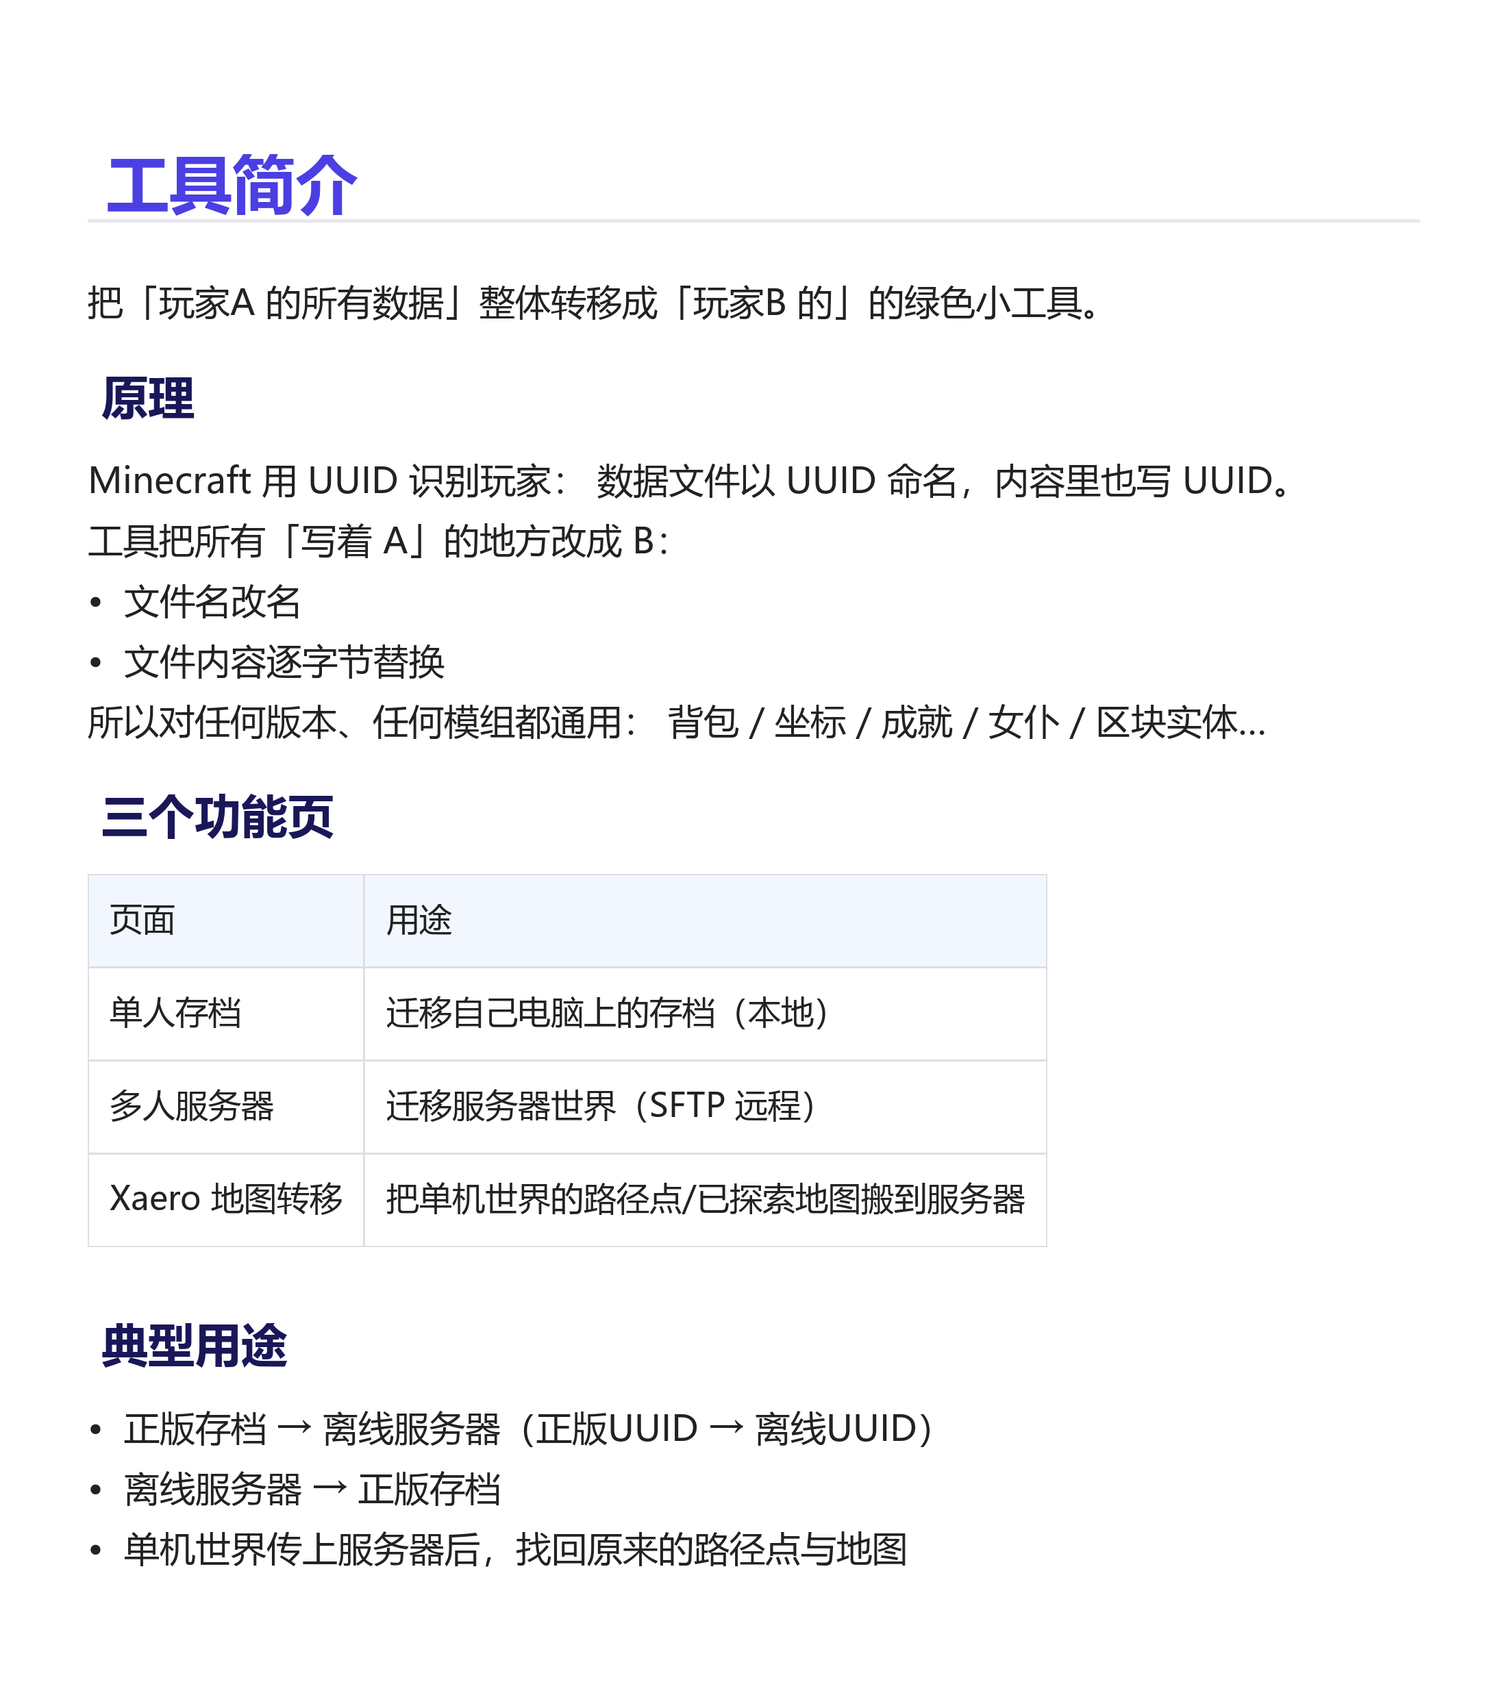
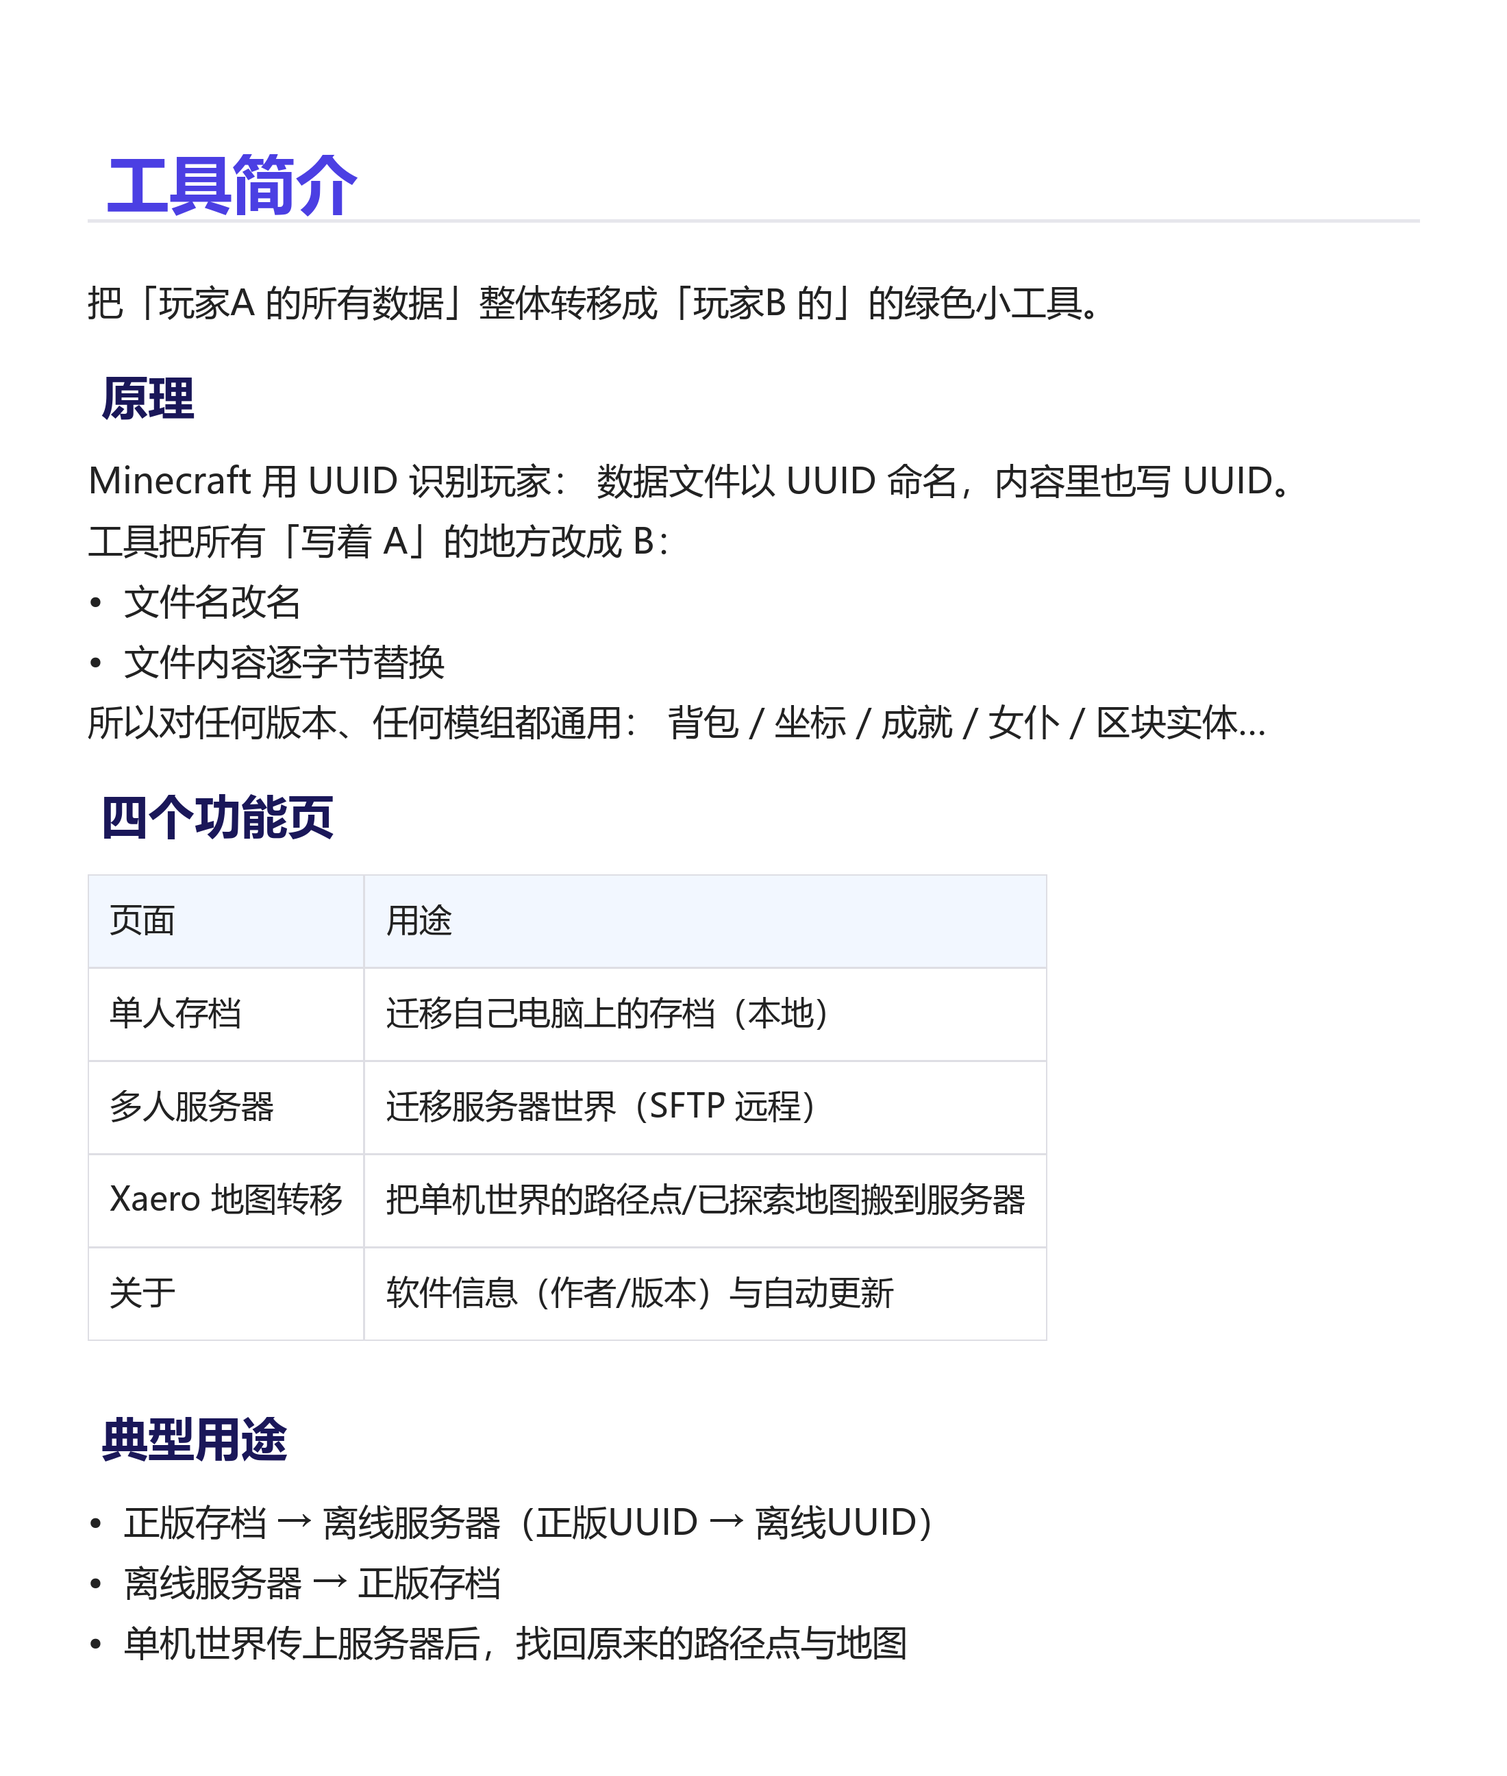
feat: 新增「关于」分页（软件信息 + 自动更新）
自动更新从顶栏按钮搬入独立的「关于」页，顶栏精简为只保留「使用教程」。

- 关于页渲染打包进 exe 的软件图标，显示名称/版本/作者(CallMeACookieWYQ)/许可(MIT)
- 新增可点击链接（GitHub 仓库 / Gitee 发行版）与「打开发布页」按钮
- 状态行显示当前版本、更新源顺序、上次检查时间（存于本地配置）
- 页内文字区记录检查顺序说明、发现的新版本与完整更新日志、下载与替换过程
- spec 打包 uuid_transfer_icon.png（关于页要渲染图标）；窗口尺寸调整为 760x600
- 教程更新：简介改为四个功能页、07 新增「关于」页说明，并重新渲染长图

Changed region(s): [[0.0618, 0.0619, 0.9273, 0.7427], [0.0618, 0.7736, 0.6182, 0.9593]]

diff --git a/uuid_transfer_tool.py b/uuid_transfer_tool.py
@@ -42,6 +42,7 @@ import threading
 import queue
 import http.client
 import urllib.request
+import webbrowser
 import tkinter as tk
 from urllib.parse import urljoin, urlsplit
 from tkinter import ttk, filedialog, messagebox, font as tkfont
@@ -1256,7 +1257,7 @@ def sftp_transfer(ssh, remote_root, uuid_a, uuid_b, report=None, progress=None, 
 # 检查方式参考 MinecraftModsCloudSync：多源查询各自的 releases/latest（Gitee 优先，国内直连更快），
 # 取第一个带 .exe 附件的源；下载沿用「keep-alive + 断点续传 + 断线重试 + 重定向跟随 + 长度校验」。
 # 区别：本工具是单文件 exe（非安装包），所以下载完成后直接原地替换自身并重启。
-APP_VERSION = "1.2.0"
+APP_VERSION = "1.3.0"
 GH_REPO = "CookieWYQ/MC-UUID-Migrator"
 GITEE_REPO = "CookieWYQ/MC-UUID-Migrator"
 GH_LATEST_API = "https://api.github.com/repos/%s/releases/latest" % GH_REPO
@@ -1503,7 +1504,7 @@ class App:
     def __init__(self, master):
         self.master = master
         master.title("UUID 玩家数据迁移")
-        master.geometry("720x560")
+        master.geometry("760x600")
         self.q = queue.Queue()
         self.cancel = threading.Event()
         self._upd_running = False
@@ -1525,9 +1526,6 @@ class App:
         self.auto_btn.pack(side="left", padx=4)
         ttk.Label(top, text="（自动算正版/离线 UUID 填入当前页并执行替换）").pack(side="left")
         ttk.Button(top, text="使用教程", command=self.show_tutorial).pack(side="right", padx=4)
-        self.update_btn = ttk.Button(top, text="检查更新", command=lambda: self.check_update(manual=True))
-        self.update_btn.pack(side="right", padx=4)
-        ttk.Label(top, text="v" + APP_VERSION).pack(side="right")
 
         nb = ttk.Notebook(frm)
         nb.grid(row=1, column=0, columnspan=3, sticky="nsew")
@@ -1620,6 +1618,61 @@ class App:
             row=9, column=0, columnspan=3, sticky="w")
         t3.columnconfigure(1, weight=1)
 
+        # ---- 关于页（软件信息 + 自动更新）----
+        t4 = ttk.Frame(nb, padding=10)
+        nb.add(t4, text="关于")
+
+        head = ttk.Frame(t4)
+        head.grid(row=0, column=0, sticky="we")
+        try:                                      # 渲染软件图标（打包后从解包目录读取）
+            self._icon_img = tk.PhotoImage(file=resource_path("uuid_transfer_icon.png")).subsample(3)
+            tk.Label(head, image=self._icon_img).pack(side="left", padx=(0, 14))
+        except Exception:
+            self._icon_img = None
+        info = ttk.Frame(head)
+        info.pack(side="left", anchor="n", fill="both", expand=True)
+        tk.Label(info, text="MC UUID 玩家数据迁移工具",
+                 font=("Microsoft YaHei UI", 13, "bold")).pack(anchor="w")
+        tk.Label(info, text="版本：v%s" % APP_VERSION).pack(anchor="w", pady=(6, 0))
+        tk.Label(info, text="作者：CallMeACookieWYQ").pack(anchor="w")
+        tk.Label(info, text="许可：MIT").pack(anchor="w")
+        links = ttk.Frame(info)
+        links.pack(anchor="w", pady=(8, 0))
+        self._link(links, "GitHub 仓库", "https://github.com/%s" % GH_REPO).pack(side="left")
+        self._link(links, "Gitee 发行版", "https://gitee.com/%s/releases" % GITEE_REPO).pack(
+            side="left", padx=(14, 0))
+
+        ttk.Separator(t4, orient="horizontal").grid(row=1, column=0, sticky="we", pady=10)
+        tk.Label(t4, text="自动更新", font=("Microsoft YaHei UI", 10, "bold")).grid(row=2, column=0, sticky="w")
+        self.about_state = tk.StringVar(value="当前版本 v%s ｜ 更新源：Gitee（优先）→ GitHub ｜ 上次检查：—"
+                                             % APP_VERSION)
+        ttk.Label(t4, textvariable=self.about_state).grid(row=3, column=0, sticky="w", pady=(4, 6))
+
+        upd_btns = ttk.Frame(t4)
+        upd_btns.grid(row=4, column=0, sticky="w")
+        self.update_btn = ttk.Button(upd_btns, text="检查更新",
+                                     command=lambda: self.check_update(manual=True))
+        self.update_btn.pack(side="left")
+        ttk.Button(upd_btns, text="打开发布页",
+                   command=lambda: webbrowser.open(release_page())).pack(side="left", padx=6)
+        ttk.Button(upd_btns, text="使用教程",
+                   command=self.show_tutorial).pack(side="left", padx=6)
+
+        self.about_text = tk.Text(t4, height=9, wrap="word", relief="solid", borderwidth=1,
+                                  state="disabled", background="#fbfbfb")
+        self.about_text.grid(row=5, column=0, sticky="nsew", pady=(8, 0))
+        t4.rowconfigure(5, weight=1)
+        t4.columnconfigure(0, weight=1)
+
+        cfg = load_config()
+        self._about_log("检查顺序：Gitee 优先（国内直连更快）→ GitHub 兜底。")
+        self._about_log("发现新版本会弹窗询问，确认后自动下载、替换本程序并重启。")
+        if cfg.get("last_check"):
+            self.about_state.set("当前版本 v%s ｜ 更新源：Gitee（优先）→ GitHub ｜ 上次检查：%s"
+                                 % (APP_VERSION, cfg["last_check"]))
+        if cfg.get("skip_version"):
+            self._about_log("已跳过版本：%s（启动时不再提示，可点「检查更新」重新查看）。" % cfg["skip_version"])
+
         # ---- 共用按钮 / 日志 / 进度 ----
         btns = ttk.Frame(frm)
         btns.grid(row=2, column=0, columnspan=3, pady=4)
@@ -1690,6 +1743,30 @@ class App:
 
     # ---- 自动更新 ----
 
+    def _link(self, parent, text, url):
+        """可点击的链接标签"""
+        f = tkfont.nametofont("TkDefaultFont").copy()
+        f.configure(underline=True)
+        lb = tk.Label(parent, text=text, fg="#0a66c2", cursor="hand2", font=f)
+        lb.bind("<Button-1>", lambda e: webbrowser.open(url))
+        return lb
+
+    def _about_log(self, msg):
+        """把一行信息追加到「关于」页的更新日志区"""
+        self.about_text.configure(state="normal")
+        self.about_text.insert("end", msg + "\n")
+        self.about_text.see("end")
+        self.about_text.configure(state="disabled")
+
+    def _mark_checked(self):
+        """记录本次检查时间，并刷新关于页的状态行"""
+        now = datetime.datetime.now().strftime("%Y-%m-%d %H:%M:%S")
+        cfg = load_config()
+        cfg["last_check"] = now
+        save_config(cfg)
+        self.about_state.set("当前版本 v%s ｜ 更新源：Gitee（优先）→ GitHub ｜ 上次检查：%s"
+                             % (APP_VERSION, now))
+
     def check_update(self, manual=False):
         """检查更新（Gitee 优先、GitHub 兜底）。manual=False 为启动时的静默检查：仅在有新版时提示"""
         if self._upd_running:
@@ -1711,13 +1788,20 @@ class App:
     def _on_update_info(self, info, manual):
         self._upd_running = False
         self.update_btn.configure(state="normal")
+        self._mark_checked()
         if not (info and is_newer(info.get("tag", ""))):
+            self._about_log("检查完成：当前已是最新版本（v%s）。" % APP_VERSION)
             if manual:
                 messagebox.showinfo("检查更新", "当前已是最新版本 v%s" % APP_VERSION)
             return
         if not manual and load_config().get("skip_version") == info["tag"]:
             return                                   # 该版本用户已选过「稍后」，启动时不再打扰
         size = ("%.1f MB" % (info["asset_size"] / 1048576.0)) if info["asset_size"] else "未知大小"
+        self._about_log("发现新版本 %s（来源 %s ｜ %s ｜ 发布 %s）"
+                        % (info["tag"], info["source"], size, info.get("published_at", "")))
+        for line in (info.get("body") or "").strip().splitlines():
+            if line.strip():
+                self._about_log("    " + line.strip())
         body = (info.get("body") or "").strip()
         if len(body) > 800:
             body = body[:800] + "\n…（完整说明见发布页）"
@@ -1734,12 +1818,14 @@ class App:
             cfg["skip_version"] = info["tag"]
             save_config(cfg)
             self.status.set("已跳过 %s；可随时点「检查更新」重新查看" % info["tag"])
+            self._about_log("已跳过版本 %s，之后启动不再提示（可在「关于」页手动检查）。" % info["tag"])
 
     def _download_update(self, info):
         self.cancel.clear()
         self.prog.configure(value=0)
         self.update_btn.configure(state="disabled")
         self.status.set("下载更新包…")
+        self._about_log("开始下载 %s（%s）…" % (info.get("asset_name", ""), info["source"]))
         threading.Thread(target=self._worker_download, args=(info,), daemon=True).start()
 
     def _worker_download(self, info):
@@ -1760,11 +1846,14 @@ class App:
                                    "新版本已下载完成。\n\n点击「是」将关闭本程序、"
                                    "替换为新版本并自动重启。"):
             self.update_btn.configure(state="normal")
+            self._about_log("已取消替换，更新包保留在：%s" % path)
             return
+        self._about_log("正在替换并重启…")
         try:
             apply_update(path)
         except Exception as e:
             self.update_btn.configure(state="normal")
+            self._about_log("替换失败：%s" % e)
             messagebox.showerror("更新失败", "%s\n\n可手动下载：%s" % (e, release_page()))
             return
         self._on_close()
@@ -2169,6 +2258,7 @@ class App:
                 elif kind == "upd_err":
                     self._upd_running = False
                     self.update_btn.configure(state="normal")
+                    self._about_log("检查失败：%s" % item[1])
                     if item[2]:
                         messagebox.showwarning("检查更新失败",
                                                "%s\n\n可稍后重试，或手动打开：%s"
@@ -2181,9 +2271,11 @@ class App:
                         self.prog.configure(value=done * 100 // total)
                     self.status.set(m)
                 elif kind == "upd_ready":
+                    self._about_log("下载完成：%s" % item[1])
                     self._apply_update(item[1])
                 elif kind == "upd_dl_err":
                     self.update_btn.configure(state="normal")
+                    self._about_log("下载失败：%s" % item[1])
                     messagebox.showerror("下载更新失败",
                                          "%s\n\n可手动下载：%s" % (item[1], release_page()))
         except queue.Empty:

diff --git a/RELEASE_NOTES_v1.3.0.md b/RELEASE_NOTES_v1.3.0.md
@@ -1,0 +1,52 @@
+# v1.3.0 — 新增「关于」页（软件信息 + 自动更新）
+
+> 自动更新从顶栏按钮搬到了独立的「关于」分页：软件图标、作者、版本、更新源状态、更新日志都集中在这一页。
+
+## 下载
+
+| 文件                                | 大小       | SHA256                                                             |
+| --------------------------------- | -------- | ------------------------------------------------------------------ |
[1 lines of base64/hex data omitted]
+
+> 该附件即构建产物 `UUID玩家数据迁移.exe`，因 GitHub 会清洗非 ASCII 附件名而改用英文名，二者为同一程序。
+
+- Windows 64 位，绿色**单文件**：无需安装 Java / Python，双击即用
+- 依赖（paramiko / cryptography / bcrypt / tkinter）、程序图标与 10 篇图形教程均已打包进 exe
+
+## 本版重点：独立的「关于」页
+
+新增第 4 个分页 **「关于」**：
+
+- **软件图标**（渲染打包进 exe 的图标）+ 名称 + 版本号 + 作者 **CallMeACookieWYQ** + 许可 MIT
+- **可点击链接**：GitHub 仓库 / Gitee 发行版
+- **自动更新区**：
+  - 状态行：当前版本 ｜ 更新源：Gitee（优先）→ GitHub ｜ 上次检查时间
+  - 「检查更新」按钮：有新版则弹窗（版本号 / 来源 / 大小 / 发布时间 + 更新日志）→ 点「是」自动下载、替换自身并重启
+  - 「打开发布页」按钮：浏览器打开最新版发布页（手动下载兜底）
+  - 文字区：检查顺序说明、发现的新版本与完整更新日志、下载与替换过程
+  - 启动后仍会**静默检查**一次，只在有新版本时提示；弹窗选「否」= 跳过该版本
+
+顶栏相应精简：只保留「使用教程」（版本号与检查更新都移入「关于」页）。
+
+## 上一个版本（v1.2.0）的内容
+
+- 自动更新：双源检查（Gitee 优先 → GitHub 兜底）、双通道下载、断点续传 / 断线重试 / 重定向跟随、大小与 PE 头校验、一键替换自身并重启
+
+## 使用提示
+
+1. 迁移服务器世界前**先停服**；使用 Xaero 转移前**先退出游戏**
+2. 建议先点「扫描 / 扫描预览」确认命中范围，再执行迁移
+3. 更新过程中请勿手动关闭正在运行的更新脚本，它会自动完成替换与重启
+4. 任何一步出问题都可用自动生成的备份目录还原
+
+## 已知限制
+
+- 若模组以 NBT 的 `UUIDMost / UUIDLeast` 双 long（而非字符串或 16 字节数组）形式存 UUID，字节级替换无法命中；但玩家本体数据（背包 / 位置 / 成就 / 模组按 UUID 命名的存档）依靠文件与目录改名继承，不受影响
+- 多人模式的 SFTP 需主机面板开放该通道
+- 走 Gitee 源时更新源不返回附件大小，弹窗会显示「未知大小」（内容仍完整下载并校验 PE 头）
+
+## 致谢与声明
+
+- 作者：**CallMeACookieWYQ**，许可：[MIT](https://github.com/CookieWYQ/MC-UUID-Migrator/blob/main/LICENSE)
+- 本 Release **不含任何第三方模组文件**；提到的 Cobblemon、Xaero 等名称仅用于说明兼容性，版权归原作者所有
+- 请遵守所在服务器规则与相关法律法规使用本工具

diff --git a/使用教程/07_公共区与按钮.md b/使用教程/07_公共区与按钮.md
@@ -7,15 +7,30 @@
 - 方向：正版→离线 / 离线→正版
 - 填游戏名 → 点「一键替换」→ 自动算 UUID 并直接迁移
 
-右侧：`v1.2.0` 版本号 + 「检查更新」+「使用教程」
+右上角：「使用教程」按钮（打开内置的 10 篇图文教程）。
 
-- **检查更新**：点一下即可查看是否有新版本
-  - 检查顺序：Gitee 优先（国内更快）→ GitHub 兜底
-  - 有新版：弹窗显示版本号 / 来源 / 大小 / 更新说明 → 点「是」自动下载、替换本程序并重启
+自动更新相关的入口都在 **「关于」页**，见下一节。
+
+## 「关于」页
+
+左侧是本工具图标，右侧是软件信息：
+
+- 名称、版本号（形如 `v1.3.0`）
+- 作者：CallMeACookieWYQ
+- 许可：MIT
+- 可点击链接：GitHub 仓库 / Gitee 发行版
+
+下面「自动更新」区域：
+
+- 状态行：当前版本 ｜ 更新源：Gitee（优先）→ GitHub ｜ 上次检查时间
+- **检查更新**：手动检查一次
+  - 有新版：显示版本号 / 来源 / 大小 / 发布时间的弹窗 → 点「是」自动下载、替换本程序并重启
   - 没有新版：提示「当前已是最新版本」
-  - 程序**每次启动也会自动静默检查**：只有发现新版本才会提示，不会打扰
-  - 弹窗选「否」= 跳过该版本，之后启动不再重复提示（仍可手动点「检查更新」查看）
-- **使用教程**：打开内置的图文教程（10 篇）
+- **打开发布页**：浏览器打开最新版发布页（手动下载兜底）
+- **使用教程**：与右上角按钮相同
+- 下方文字区：显示检查顺序说明、发现的新版本与更新日志、下载/替换过程
+- 程序**每次启动也会自动静默检查**：只有发现新版本才提示
+- 弹窗选「否」= 跳过该版本，之后启动不再提示（仍可手动点「检查更新」）
 
 ## 多人服务器页的「记住密码」
 

diff --git a/使用教程/01_工具简介.md b/使用教程/01_工具简介.md
@@ -16,13 +16,14 @@ Minecraft 用 UUID 识别玩家：
 所以对任何版本、任何模组都通用：
 背包 / 坐标 / 成就 / 女仆 / 区块实体…
 
-## 三个功能页
+## 四个功能页
 
 | 页面         | 用途                   |
 | ---------- | -------------------- |
 | 单人存档       | 迁移自己电脑上的存档（本地）       |
 | 多人服务器      | 迁移服务器世界（SFTP 远程）     |
 | Xaero 地图转移 | 把单机世界的路径点/已探索地图搬到服务器 |
+| 关于         | 软件信息（作者/版本）与自动更新     |
 
 ## 典型用途
 
